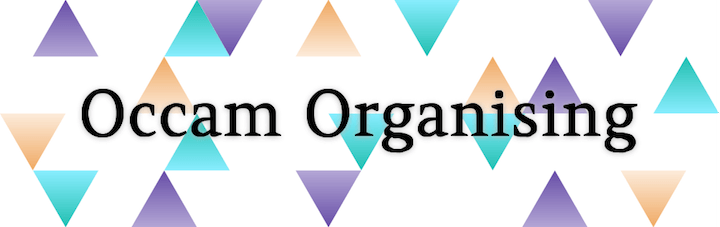
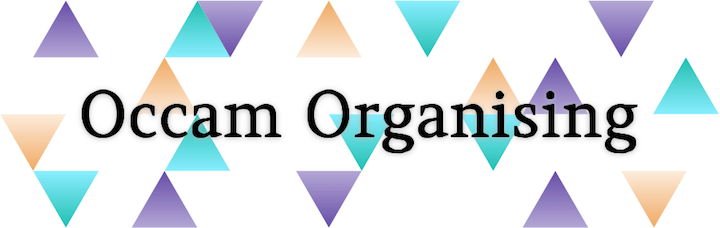
updated header size

diff --git a/style.css b/style.css
@@ -27,7 +27,7 @@
 		margin: 0 auto;
 		padding: 0;
 		border: 0;
-		height: 227px;
+		height: 228px;
 		width: 720px;
 		background-image: url("header.png");
 		background-size: 720px;
